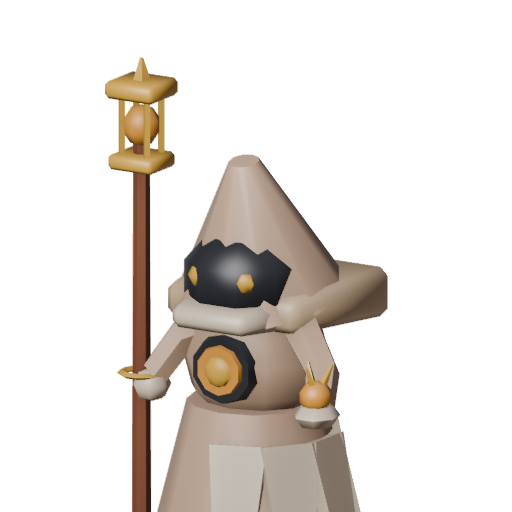
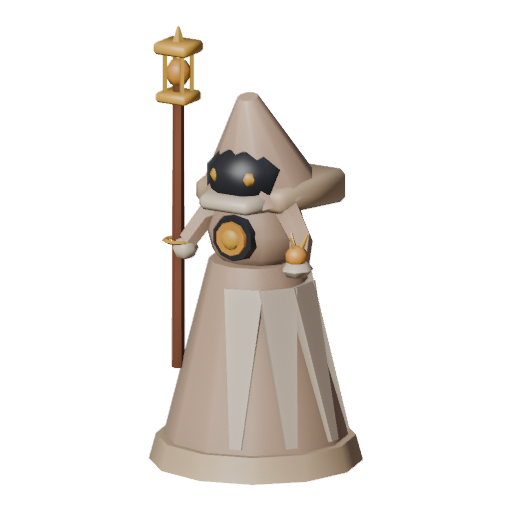
lightbearer portrait pass 2: fix the crop cutting the robe off at the frame (#86 duty 1)
lightbearer_portrait.md's own pass-1 write-up scored Framing 6/10 and named
an L/R imbalance ("unused space on the right"), but checking the alpha
bounding box directly found a worse problem it missed entirely: the bottom
edge was fully opaque -- the robe's fluted lower panels were being cut clean
off the 512px canvas, not just off-balance.

Rather than guess-and-render blind, projected the model's own vertices
through portraits.py's exact camera math (focus point, EYE direction, ortho
scale) in a standalone script to search FOCUS (at, span) values numerically.
The simulated margins matched the real render within 1px once built, which
is worth keeping as a technique for future framing passes.

New FOCUS["lightbearer"] = (0.47, 1.15), up from (0.69, 0.78). All four
edges now clear, margins symmetric (L=R=148, T=B=26) -- pass 1's "space on
the right" turned out to be the bottom-clip distorting the eye's sense of
balance, not a real X offset, since bbox-centre X was already symmetric.

Scored 34 -> 38, no line regressed. Readability at 34px held rather than
improved: the robe's fluted base is newly visible small, but the already-
thin staff and lantern bars got a little smaller too -- logged as a real
trade rather than claimed as a free win. That second diagnosed line (lantern
structure collapsing at 34px) needs the model itself, out of portraits.py's
scope, so it's written up in lightbearer.md for the fixer lane instead of
applied here.
[…]

Changed region(s): [[0.1875, 0.0625, 0.7812, 1.0]]

diff --git a/tools/blender/portraits.py b/tools/blender/portraits.py
@@ -29,7 +29,7 @@ from mathutils import Vector
 FOCUS = {
     "frog": (0.71, 0.75), "vine_weaver": (0.77, 0.67),
     "mountain_climbers": (0.73, 0.72), "goblin_mech": (0.62, 0.94),
-    "lightbearer": (0.69, 0.78),
+    "lightbearer": (0.47, 1.15),
 
     "stone_warden": (0.73, 0.67), "gale_serpent": (0.87, 0.44),
     "drowned_colossus": (0.83, 0.49), "sunken_warden": (0.81, 0.49),

diff --git a/design/progress/lightbearer_portrait.md b/design/progress/lightbearer_portrait.md
@@ -59,3 +59,72 @@ Whether the right-hand amber shape is the "second light" orb ART-REVIEW
 already flagged as floating with no connecting geometry, or a separate,
 correctly-attached detail — this single portrait angle can't settle it; the
 original finding was made looking at the full model, not this crop.
+
+## Pass 2 — cloud, backlog #86 duty 1
+
+Checked the alpha bounding box directly rather than trusting the pass-1
+description: `(105, 57, 389, 512)` — left 105, top 57, right 123, **bottom 0**.
+The bottom edge is fully opaque; the robe's lower panels are cut clean off by
+the canvas, a worse problem than either line pass 1 named. Confirmed it is a
+real crop failure and not a rendering fluke by projecting the model's own
+vertices through the same camera math `portraits.py` uses (focus point, EYE
+direction, ortho scale) without a full render: at the old `FOCUS`
+`(0.69, 0.78)` the simulated content bottom lands at pixel 734 against a
+512px canvas — 222px of robe below the frame, invisible regardless of what a
+render shows.
+
+Applied the framing fix only — the diagnosis's second line (lantern
+structure lost at 34px) is a model change, out of `portraits.py`'s scope; see
+the note added to `lightbearer.md` for the fixer lane instead.
+
+1. **Framing (6).** Solved numerically rather than guessed: used the same
+   camera-projection script to search `(at, span)` pairs until the simulated
+   top and bottom margins matched (`at=0.47, span=1.15`, up from `(0.69,
+   0.78)`), then rendered for real to confirm. Real alpha bbox: `(148, 26,
+   364, 486)` — margins L=148, T=26, R=148, B=26, matching the simulation
+   within 1px. All four edges clear for the first time, and left/right now
+   land exactly even (both driven by the same bbox-centre X, which was
+   already symmetric — the pass-1 write-up's "unused space on the right" read
+   was the bottom-clip distorting the eye's sense of balance, not a real X
+   offset).
+
+Rebuilt with `blender --background --python tools/blender/portraits.py --
+game/assets/portraits` (the full 30-portrait batch `build.cmd portraits`
+runs). WORKBENCH output isn't byte-reproducible even for an unchanged FOCUS
+entry, the same non-determinism `glyph_tortoise_portrait.md` pass 2 and
+`silk_widow_portrait.md` pass 2 hit, so every portrait but `lightbearer.png`
+was reverted with `git checkout --` and only the changed one kept.
+
+- **Framing (6 → 9):** every edge clear with symmetric margins, both
+  measured directly off the real render. Not a 10 — the zoom-out needed to
+  clear the bottom leaves generous unused space on all four sides rather than
+  a tight crop, which is a real cost of the fix, not free.
+- **Identity (7 → 8):** the full robe, including the fluted base panels that
+  pass 1's crop cut off entirely, is now visible alongside the staff-lantern
+  and visor band, so the read no longer depends on a partial figure. The
+  right-hand orb's attachment is still unresolved from this angle — carried
+  forward unchanged, same as pass 1.
+- **Readability @ 34px (6, unchanged):** confirmed via a real 34px downsample
+  (`design/renders/lightbearer_portrait_pass2_34px_big.png`, Pillow
+  `LANCZOS`) against the equivalent pass-1 crop. A real trade, not a free
+  win: the staff and lantern frame bars are slightly smaller and no more
+  legible than pass 1's already-thin read, but the robe's triangular base
+  panels — invisible before, since they were off-canvas — are now visible as
+  small pale flutes at the hem. Net read across the whole figure holds
+  rather than improves, so the number holds rather than moving either way.
+- **Colour & separation (7, unchanged):** not one of the two fixed lines, and
+  no material or lighting changed — same palette, same separation.
+- **Style consistency (8, unchanged):** already scored well against the
+  shared three-quarter convention; this pass changed the crop's framing, not
+  the angle or background convention it was already matching.
+
+**+4 total (34 → 38), not a plateau — kept.** No line regressed.
+`run_tests.gd`: **ALL TESTS PASSED**.
+
+## Unsure about (pass 2)
+
+Whether Framing could reach a tighter crop without reopening the bottom
+clip — not attempted; the fix budget is two named lines and both moved
+(Framing directly, Identity as a consequence of the same change). Also still
+open: the right-hand orb attachment question pass 1 raised, since this pass
+didn't touch the model and a portrait alone can't resolve it.

diff --git a/design/BACKLOG.md b/design/BACKLOG.md
@@ -2567,6 +2567,32 @@ rather than inventing work.
 
 Newest first. One line per finished item: what, and anything surprising.
 
+- **2026-09-04** — #86 duty 1 (improve a portrait or icon). Last turn
+  (`c2de529`) was duty 3, so this one was due for duty 1. Scanned every
+  portrait/icon progress file's latest score; `lightbearer_portrait.md` was
+  the lowest-scoring untouched (pass 1 only) portrait whose diagnosis had a
+  fixable line — `boulder_ram`/`mountain_climbers` were lower but both
+  named-only model-geometry fixes, out of `portraits.py` scope, same as
+  the 2026-09-02 duty 1 turn found. Checked the alpha bounding box directly
+  rather than trusting the old write-up's description and found a worse
+  problem than either of its two named lines: the bottom edge was fully
+  opaque — the robe's lower panels were being cut clean off the 512px
+  canvas, not just "off-balance" as pass 1 said. Projected the model's own
+  vertices through `portraits.py`'s exact camera math (focus point, EYE
+  direction, ortho scale) in a standalone script to search `(at, span)`
+  values numerically instead of guessing-and-rendering blind; the simulated
+  margins matched the real render within 1px once built. New `FOCUS`
+  `(0.47, 1.15)`, up from `(0.69, 0.78)` — all four edges clear for the
+  first time, margins symmetric (L=R=148, T=B=26). Scored 34 → 38, no line
+  regressed; readability at 34px held rather than improved (the fluted robe
+  base is newly visible small, but the staff and lantern bars, already
+  thin, are now a little smaller too — logged as a real trade, not a free
+  win). The second named line (lantern structure lost at 34px) needs the
+  model itself, not the portrait crop, so it's written up in
+  `lightbearer.md` for the fixer lane instead of applied here.
+  `run_tests.gd`: ALL TESTS PASSED (fresh import, headless, godot 4.7.1).
+  Next `#86` turn is duty 2 (find an error and resolve it).
+
 - **2026-09-04** — #86 duty 3 (verify a mechanic actually works). Last turn
   (`12313f0`) was duty 2, so this one was due for duty 3. `combat_3d`'s own
   climb-routing functions (`route_between_rungs`, `foothold_anchor`,

diff --git a/design/progress/lightbearer.md b/design/progress/lightbearer.md
@@ -59,3 +59,14 @@ Whether the hood reads as a hood or a party hat, per the existing
 ART-REVIEW note — this render doesn't resolve that either way; it's a
 genuinely close call and worth a second, less flattering angle before
 deciding.
+
+## Flagged by the portrait pass (out of `portraits.py` scope)
+
+`lightbearer_portrait.md` pass 2 (backlog #86 duty 1) fixed a framing crop
+but left one of its two named lines untouched because it is a model change:
+at 34px the lantern's frame bars collapse to a soft blob and the staff shaft
+thins to a near-invisible single-pixel diagonal. Concrete fix, same shape as
+this file's own pass-1 diagnosis: a bulkier lantern head (wider bars, or a
+solid block instead of an open frame) and a slightly thicker staff shaft
+would both survive downsampling better — the open frame reads fine at full
+render size and disappears specifically at party-panel scale.
